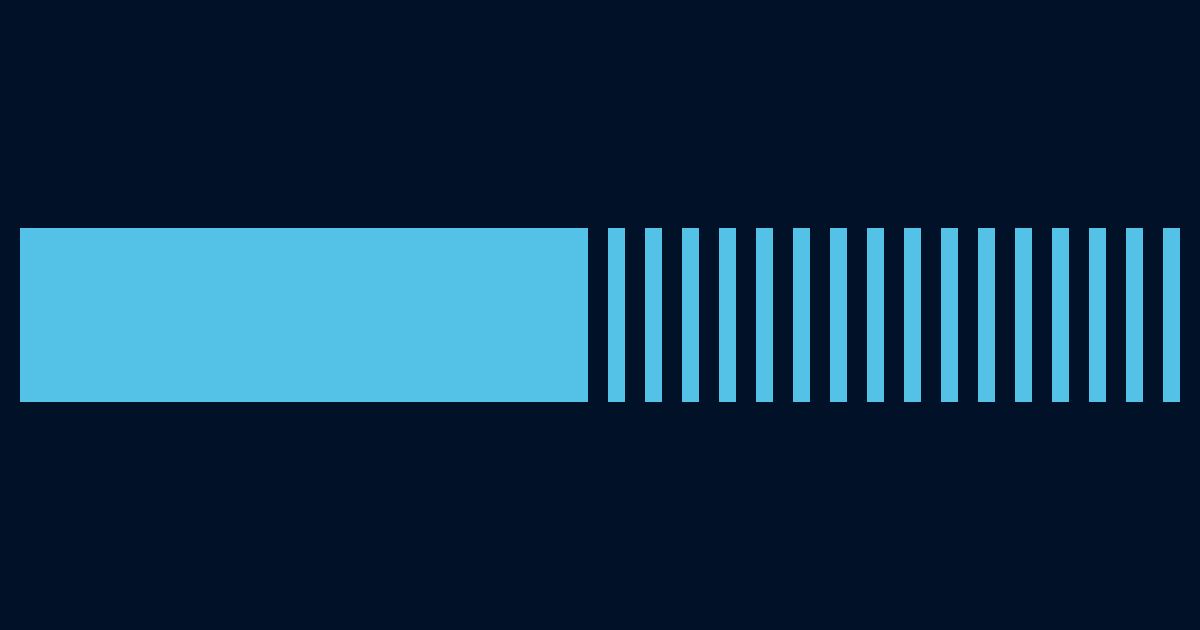
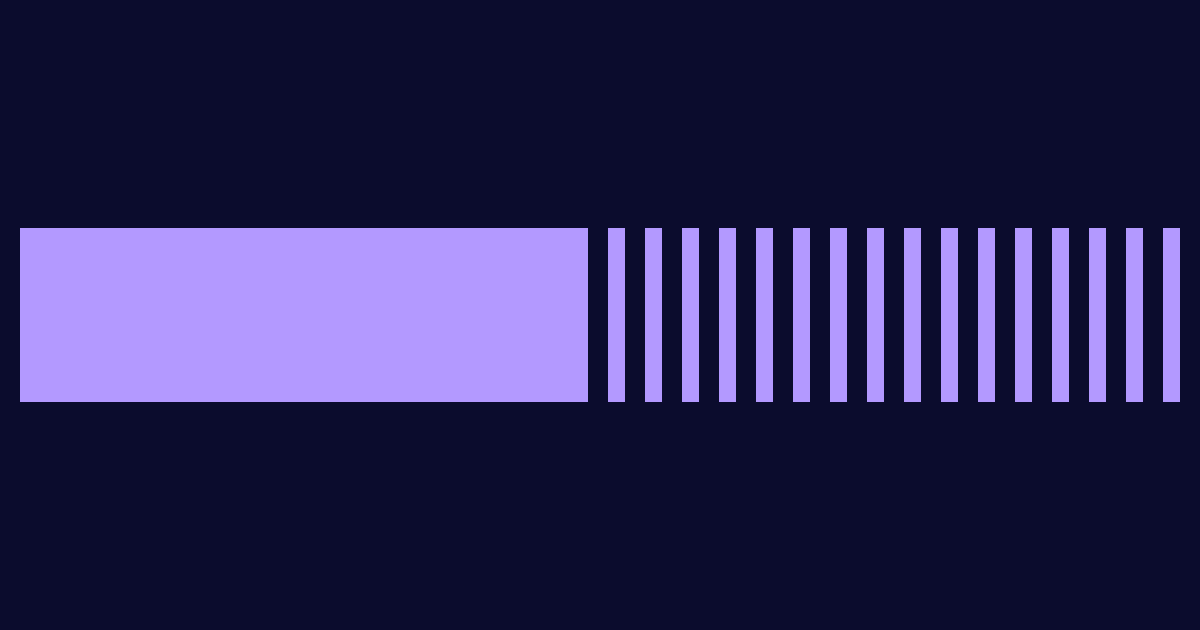
changing to vaudhall inspired color scheme

Changed region(s): [[0.0, 0.3619, 0.9867, 0.6635]]

diff --git a/static/style.css b/static/style.css
@@ -1,12 +1,9 @@
 /* Placeholder file for your custom settings. */
 /* You can get the color scheme variables from https://panr.github.io/terminal-css/ */
 :root {
-  --background: #011228;
-  --foreground: #fee801;
-  --accent: #54c1e6;
-  --radius: 0;
-  --font-size: 1rem;
-  --line-height: 1.54em;
+  --background: #0b0c2d;
+  --foreground: #ece8fc;
+  --accent: #b399ff;
 }
 
 @media (max-width: 684px) {
